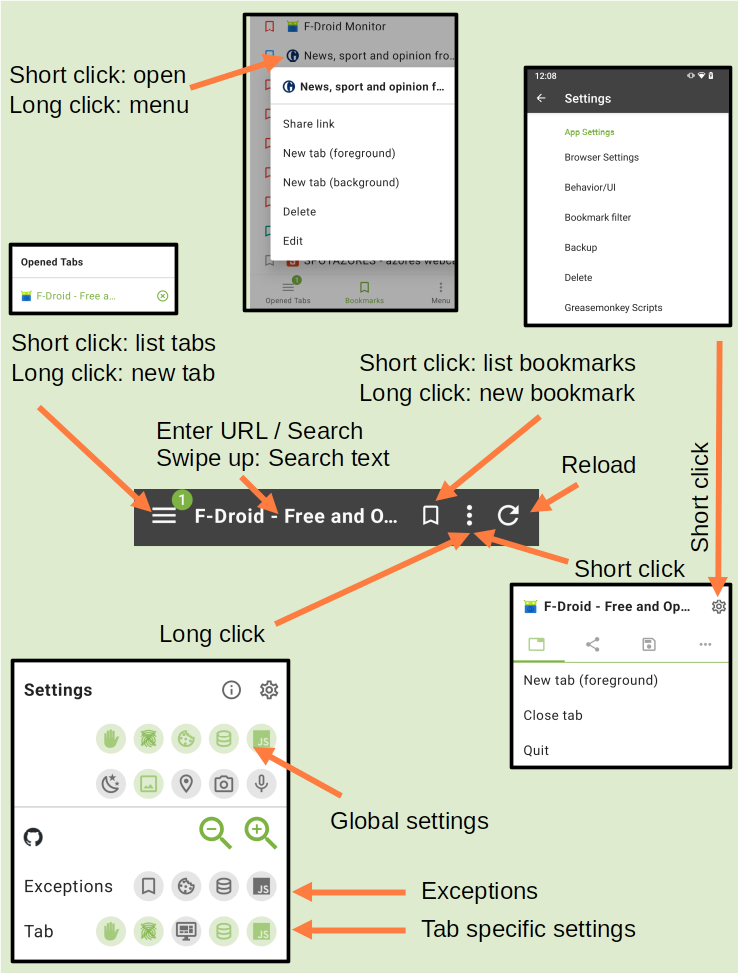
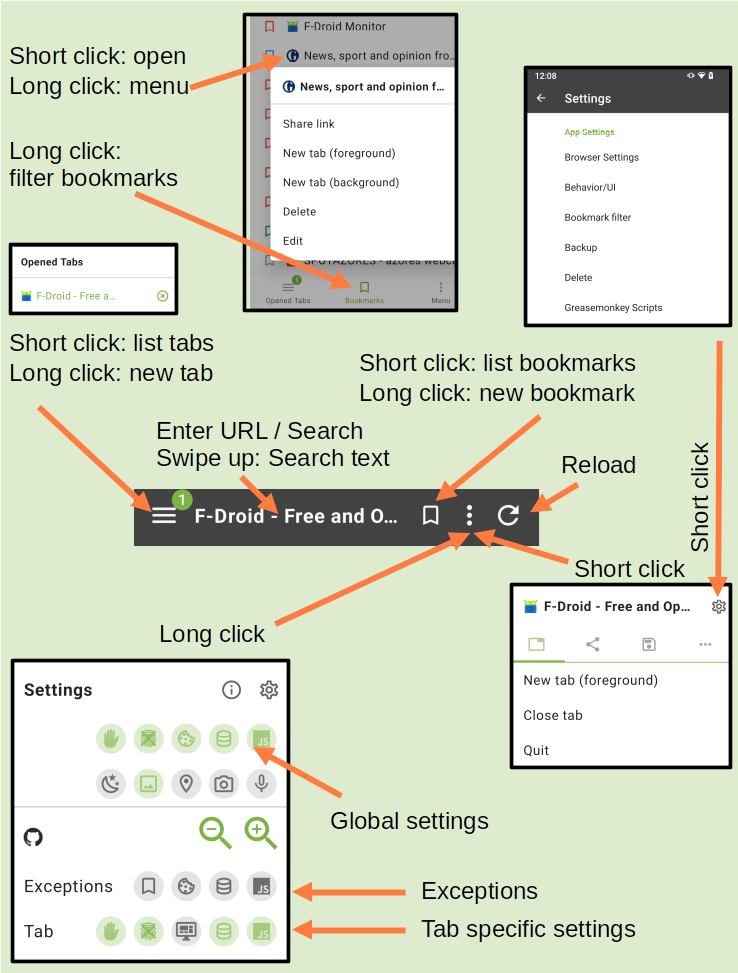
Update instructions Reset filter at long click Refactoring Remove unused stuff

Changed region(s): [[0.0, 0.0308, 0.4675, 0.3083], [0.0, 0.3392, 0.3117, 0.4008]]

diff --git a/app/src/main/java/de/baumann/browser/activity/BrowserActivity.java b/app/src/main/java/de/baumann/browser/activity/BrowserActivity.java
@@ -89,7 +89,6 @@ import java.util.ArrayList;
 import java.util.Arrays;
 import java.util.LinkedList;
 import java.util.List;
-import java.util.Locale;
 import java.util.Objects;
 
 import de.baumann.browser.GithubStar;
@@ -471,7 +470,7 @@ public class BrowserActivity extends AppCompatActivity implements BrowserControl
         adapter.notifyDataSetChanged();
         omniBox_text.setDropDownWidth(context.getResources().getDisplayMetrics().widthPixels);
         omniBox_text.setOnItemClickListener((parent, view, position, id) -> {
-            String url = ((TextView) view.findViewById(R.id.record_item_time)).getText().toString();
+            String url = ((TextView) view.findViewById(R.id.record_item_url)).getText().toString();
             ninjaWebView.loadUrl(url);
         });
     }
@@ -637,12 +636,7 @@ public class BrowserActivity extends AppCompatActivity implements BrowserControl
             }
         });
         omniBox_overview.setOnClickListener(v -> showOverview());
-        omniBox_overview.setOnLongClickListener(v -> {
-            bottom_navigation.setSelectedItemId(R.id.bookmarks);
-            showOverview();
-            show_dialogFilter();
-            return false;
-        });
+
         omniBox_overview.setOnLongClickListener(v -> {
             saveBookmark();
             return true;
@@ -1899,6 +1893,9 @@ public class BrowserActivity extends AppCompatActivity implements BrowserControl
         builder.setView(dialogView);
         AlertDialog dialog = builder.create();
         dialog.show();
+
+        filter=false;
+        bottom_navigation.setSelectedItemId(R.id.bookmarks);  //reset filter
 
         CardView cardView = dialogView.findViewById(R.id.cardView);
         cardView.setVisibility(View.GONE);

diff --git a/app/src/main/java/de/baumann/browser/view/RecordAdapter.java b/app/src/main/java/de/baumann/browser/view/RecordAdapter.java
@@ -34,7 +34,6 @@ public class RecordAdapter extends ArrayAdapter<Record> {
 
     private static class Holder {
         TextView title;
-        TextView time;
         ImageView icon;
         ImageView favicon;
         CardView cardView;
@@ -50,7 +49,6 @@ public class RecordAdapter extends ArrayAdapter<Record> {
             view = LayoutInflater.from(context).inflate(layoutResId, parent, false);
             holder = new Holder();
             holder.title = view.findViewById(R.id.record_item_title);
-            holder.time = view.findViewById(R.id.record_item_time);
             holder.icon = view.findViewById(R.id.record_item_icon);
             holder.favicon=view.findViewById(R.id.record_item_favicon);
             holder.cardView=view.findViewById(R.id.cardView);
@@ -61,9 +59,7 @@ public class RecordAdapter extends ArrayAdapter<Record> {
 
         Record record = list.get(position);
         long filter = record.getIconColor();
-        SimpleDateFormat sdf = new SimpleDateFormat("MMM dd", Locale.getDefault());
         holder.title.setText(record.getTitle());
-        holder.time.setText(sdf.format(record.getTime()));
 
         HelperUnit.setFilterIcons(holder.icon,filter);
 

diff --git a/app/src/main/java/de/baumann/browser/view/CompleteAdapter.java b/app/src/main/java/de/baumann/browser/view/CompleteAdapter.java
@@ -188,7 +188,7 @@ public class CompleteAdapter extends BaseAdapter implements Filterable {
             holder = new Holder();
             holder.titleView = view.findViewById(R.id.record_item_title);
             holder.titleView.setTextColor(ContextCompat.getColor(context, R.color.color_light));
-            holder.urlView = view.findViewById(R.id.record_item_time);
+            holder.urlView = view.findViewById(R.id.record_item_url);
             holder.iconView = view.findViewById(R.id.record_item_icon);
             holder.favicon=view.findViewById(R.id.record_item_favicon);
             holder.cardView=view.findViewById(R.id.cardView);

diff --git a/README.md b/README.md
@@ -82,6 +82,7 @@ In additions there are settings which are only available as global settings:
 ### Greasemonkey style scripts
 
 FREE Browser supports simple user scripts in Greasemonkey style.
+(e.g. [Github Old Feed](https://github.com/wangrongding/github-old-feed/) )
 The following tags:
 - @match
 - @run-at
